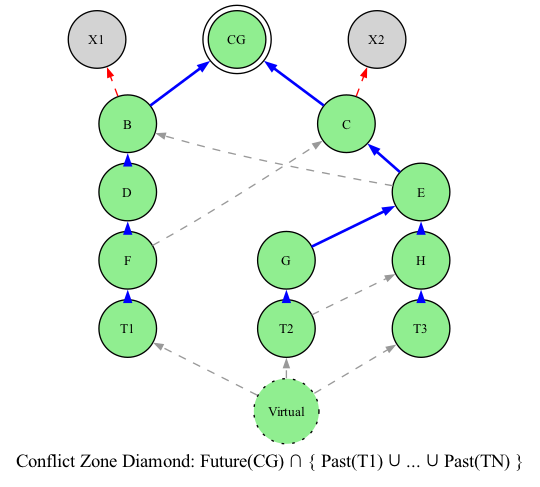
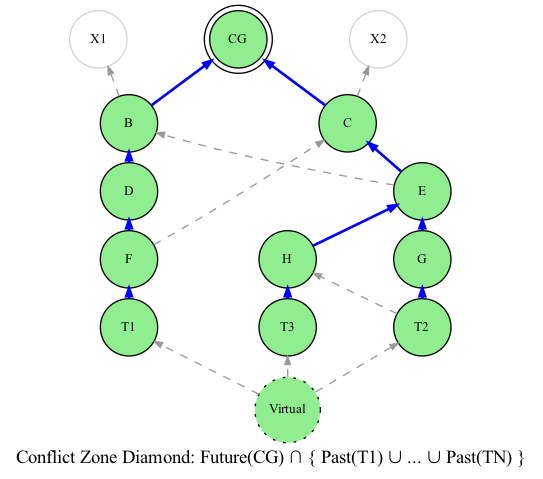
More consistent graphics

diff --git a/03-conflict-zones.md b/03-conflict-zones.md
@@ -1,5 +1,9 @@
 # 03 — Conflict Zones
 
+![DAG-with-Tips](png/03-dag-with-tips.png)
+
+In this image, the DAGKnight selected parents of the blocks are shown with **blue arrows**. The tips of the DAG are shown in green. **Virtual** is the unmined next block pointing to the DAG tips. It is for virtual that we need to run the DAGKnight algorithm for to determine it's selected parent among T1, T2 or T3.
+
 ## The Chain-Parent
 
 In a DAG, blocks have multiple parents. Similar to GhostDAG, DAGKnight uses the concept of a **chain-parent** (also known as the **selected parent**) — a single designated parent per block that forms a "main chain" through the DAG from the POV of this block.
@@ -20,7 +24,7 @@ The chain-parent of B is the block that **minimizes B's rank**. If B has two par
 - rank(B via P1) = 3
 - rank(B via P2) = 5
 
-Then P1 is B's chain-parent. (Rank will be explained in detail in Chapter 06.)
+Then P1 is B's chain-parent. Rank will be explained in detail in Chapter 06.
 
 ### Why a Main Chain?
 
@@ -32,25 +36,25 @@ The main chain serves two purposes:
 
 ## Conflict Zone
 
-The **conflict zone** is the region of the DAG between the conflict genesis and the current tips, bounded by:
+The **conflict zone** is the region of the DAG between the conflict genesis and the current tips (T1, T2, ..., TN), bounded by for which the DAGKnight algorithm is run:
 
 ```
 conflict_zone = Future(CG) ∩ { Past(T1) ∪ Past(T2) ∪ ... ∪ Past(TN) }
 ```
 
-The conflict zone is where DAGKnight performs its analysis (k-colouring, UMC voting, etc.). Everything below the conflict genesis is already resolved; everything above the tips hasn't happened yet.
+If forms the region for which the components of DAGKnight such as K-Colouring, Tie-Breaking and Ranking are performed. Only blocks within this region is considered in the calculation.
 
 ### Conflict Genesis
 
-A **conflict genesis** is the point where competing chains diverge. Formally, it's the **latest common chain ancestor** of two or more competing tip groups.
+A **conflict genesis** is the point where competing tips diverge on how they extend the POV of the conflict genesis. Formally, it's the **latest common chain ancestor** of two or more competing tips.
 
 ![Conflict zone visualization](png/03-conflict-zone.png)
 
-Here, C is the conflict genesis because it's the latest block that is a chain ancestor of both F and G. The conflict zone is the region from C up to the tips.
+Here, **CG** is the conflict genesis because it's the latest chain block that is a chain ancestor of both T1, T2 and T3. The conflict zone is the region from CG up to the tips.
 
 ### The Diamond Shape
 
-The conflict zone forms a **diamond** shape in the DAG. It's the set of blocks that are both in the future of the conflict genesis AND in the past of all current tips.
+The conflict zone forms a **diamond** shape in the DAG. It's the set of blocks that are both in the future of the conflict genesis AND in the union of the past of the tips.
 
 ![Conflict zone diamond](png/03-conflict-zone-diamond.png)
 
@@ -63,7 +67,7 @@ Some blocks may have parents or children that are outside this diamond from the 
 
 ### Definition
 
-A set of blocks X **agrees** in a DAG G relative to a conflict genesis g if their latest common chain ancestor is a chain-descendant of g:
+A set of blocks X **agrees** in a DAG G relative to a conflict genesis g if if these blocks have the same **next chain ancestor** after g:
 
 ```
 There exists some block g' such that:
@@ -76,6 +80,8 @@ There exists some block g' such that:
 Two blocks "agree" when they share a common chain-extension above the conflict point. They are on the same "side" of a conflict.
 
 ![Agreement visualization](png/03-agreement.png)
+
+Here, there are 2 sides to the conflict, `[T1]` whose next chain ancestor after CG is `B` and `[T2, T2]` whose next chain ancestor after CG is `C`
 
 Three tips compete: **T1** (left side, blue) and **T2, T3** (right side, yellow/orange).
 
@@ -91,7 +97,7 @@ Dashed gray edges show non-selected parents (e.g., F also references C, but did 
 
 ### Why Agreement Matters
 
-Agreement allows DAGKnight to group competing tips into **subgroups** of internally-consistent candidates. Each subgroup represents a "side" in a conflict, and DAGKnight evaluates each subgroup independently.
+Agreement allows DAGKnight to group competing tips into **subgroups** of internally-agreeing candidates. Each subgroup represents a "side" in a conflict, and DAGKnight evaluates each subgroup independently.
 
 ## Gray Blocks
 
